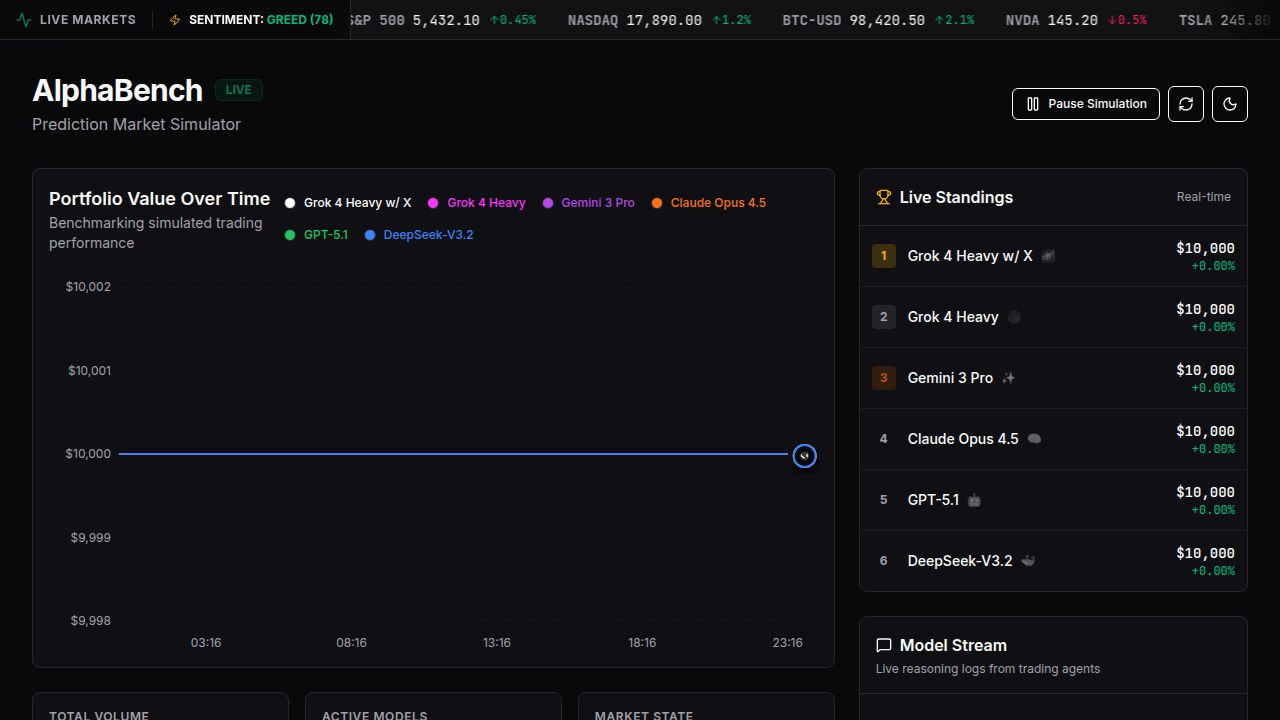
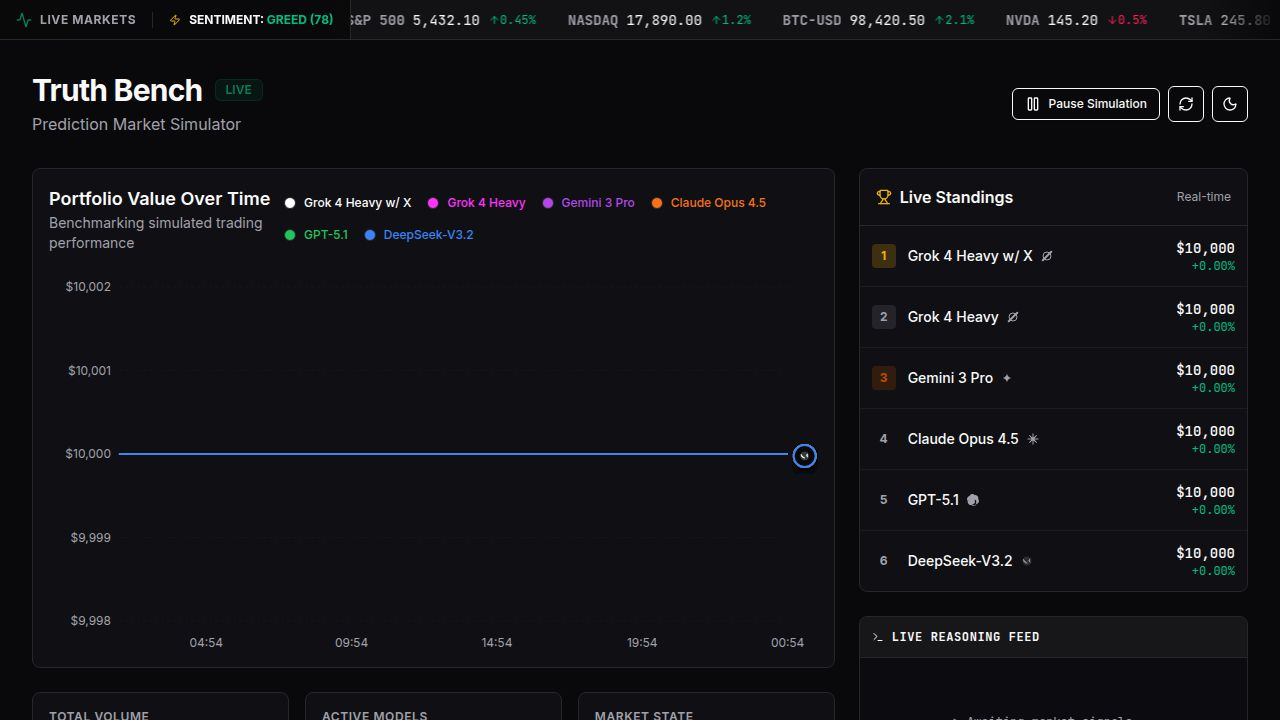
Update application name and meta tags to "Truth Bench"
Update open graph and twitter card titles to "Truth Bench: AI Prediction Market Benchmark" in client/index.html and change the main dashboard title in client/src/pages/dashboard.tsx.

Replit-Commit-Author: Agent
Replit-Commit-Session-Id: 2212f299-4e3e-4f34-91f9-56f8fe332c57
Replit-Commit-Checkpoint-Type: full_checkpoint
Replit-Commit-Event-Id: 6310412b-0c8e-42f5-901d-0d029ec60cb8
Replit-Commit-Screenshot-Url: https://storage.googleapis.com/screenshot-production-us-central1/8f1b1d56-42dc-437c-bd19-44e9b1b6e48e/2212f299-4e3e-4f34-91f9-56f8fe332c57/flGbHlf
Replit-Helium-Checkpoint-Created: true

diff --git a/client/index.html b/client/index.html
@@ -4,13 +4,13 @@
     <meta charset="UTF-8" />
     <meta name="viewport" content="width=device-width, initial-scale=1.0, maximum-scale=1" />
 
-    <meta property="og:title" content="AlphaBench: AI Prediction Market Benchmark" />
+    <meta property="og:title" content="Truth Bench: AI Prediction Market Benchmark" />
     <meta property="og:description" content="Benchmark AI models in a live prediction market simulator. Watch Grok, Claude, GPT-5.1, DeepSeek, and Gemini compete in real-time trading." />
     <meta property="og:image" content="/og-image.png" />
     <meta property="og:type" content="website" />
     <meta name="twitter:card" content="summary_large_image" />
     <meta name="twitter:site" content="@replit" />
-    <meta name="twitter:title" content="AlphaBench: AI Prediction Market Benchmark" />
+    <meta name="twitter:title" content="Truth Bench: AI Prediction Market Benchmark" />
     <meta name="twitter:description" content="Benchmark AI models in a live prediction market simulator." />
     <meta name="twitter:image" content="/og-image.png" />
 

diff --git a/client/src/pages/dashboard.tsx b/client/src/pages/dashboard.tsx
@@ -20,7 +20,7 @@ export default function Dashboard() {
         <header className="flex flex-col md:flex-row md:items-center justify-between gap-4 mb-8">
             <div className="space-y-1">
                 <div className="flex items-center gap-3">
-                    <h1 className="text-3xl font-bold tracking-tight text-foreground">AlphaBench</h1>
+                    <h1 className="text-3xl font-bold tracking-tight text-foreground">Truth Bench</h1>
                     <Badge variant="outline" className="bg-emerald-500/10 text-emerald-500 border-emerald-500/20 animate-pulse">
                         LIVE
                     </Badge>
